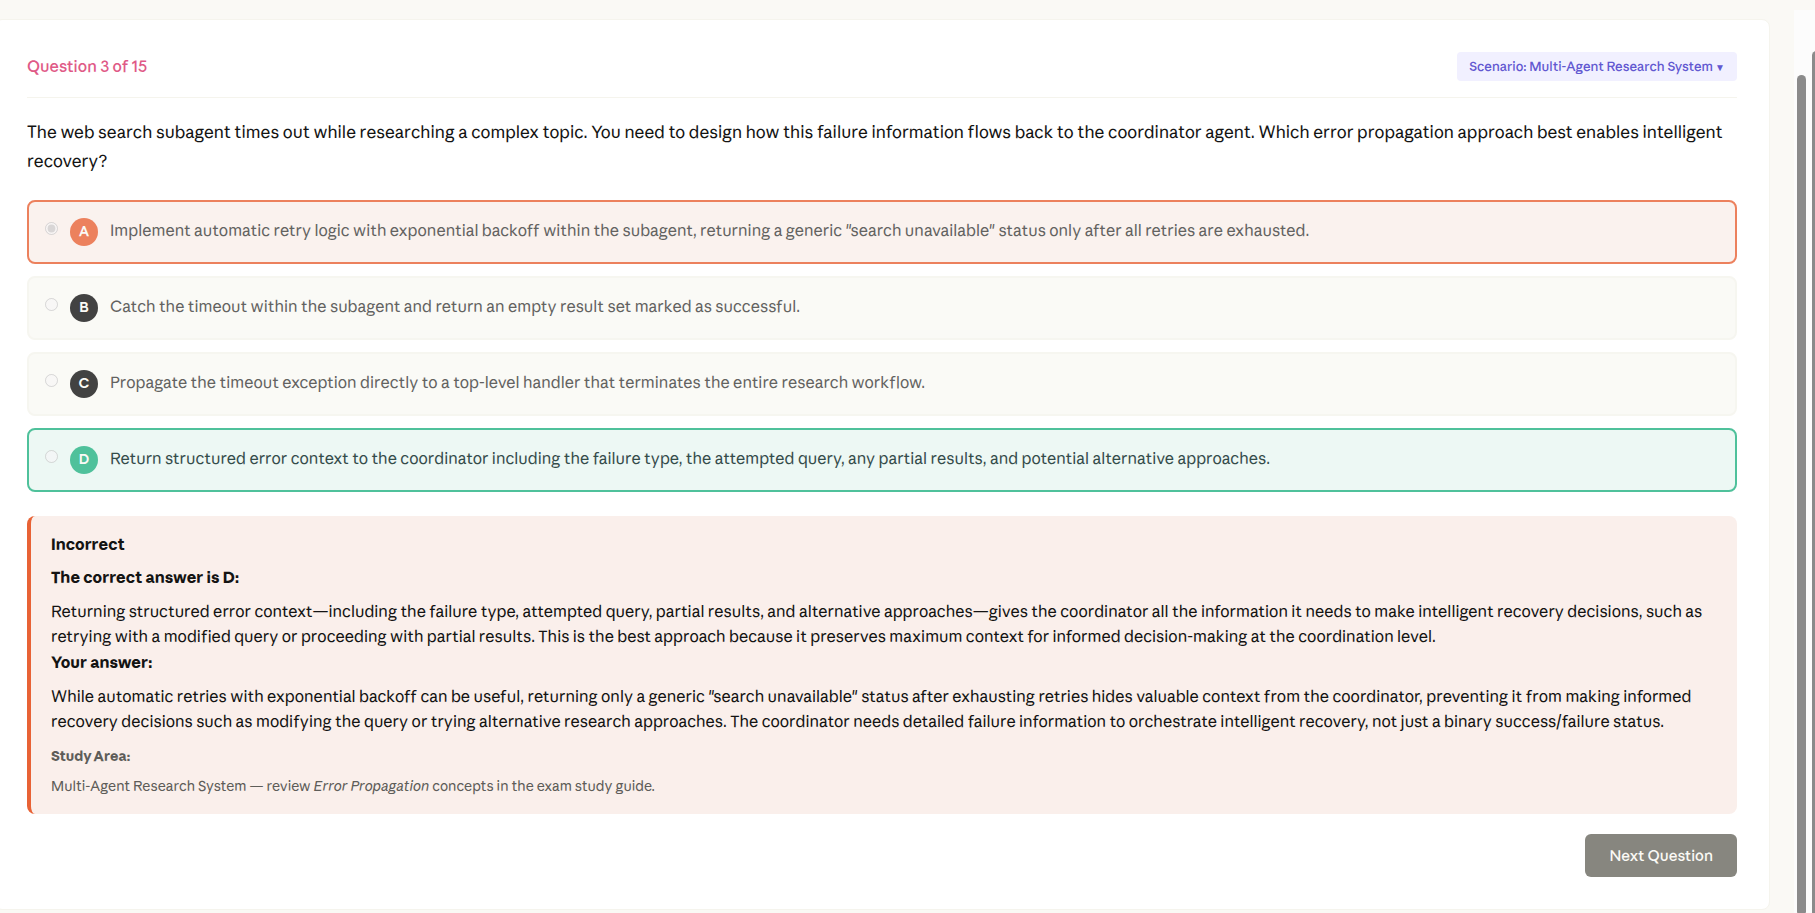
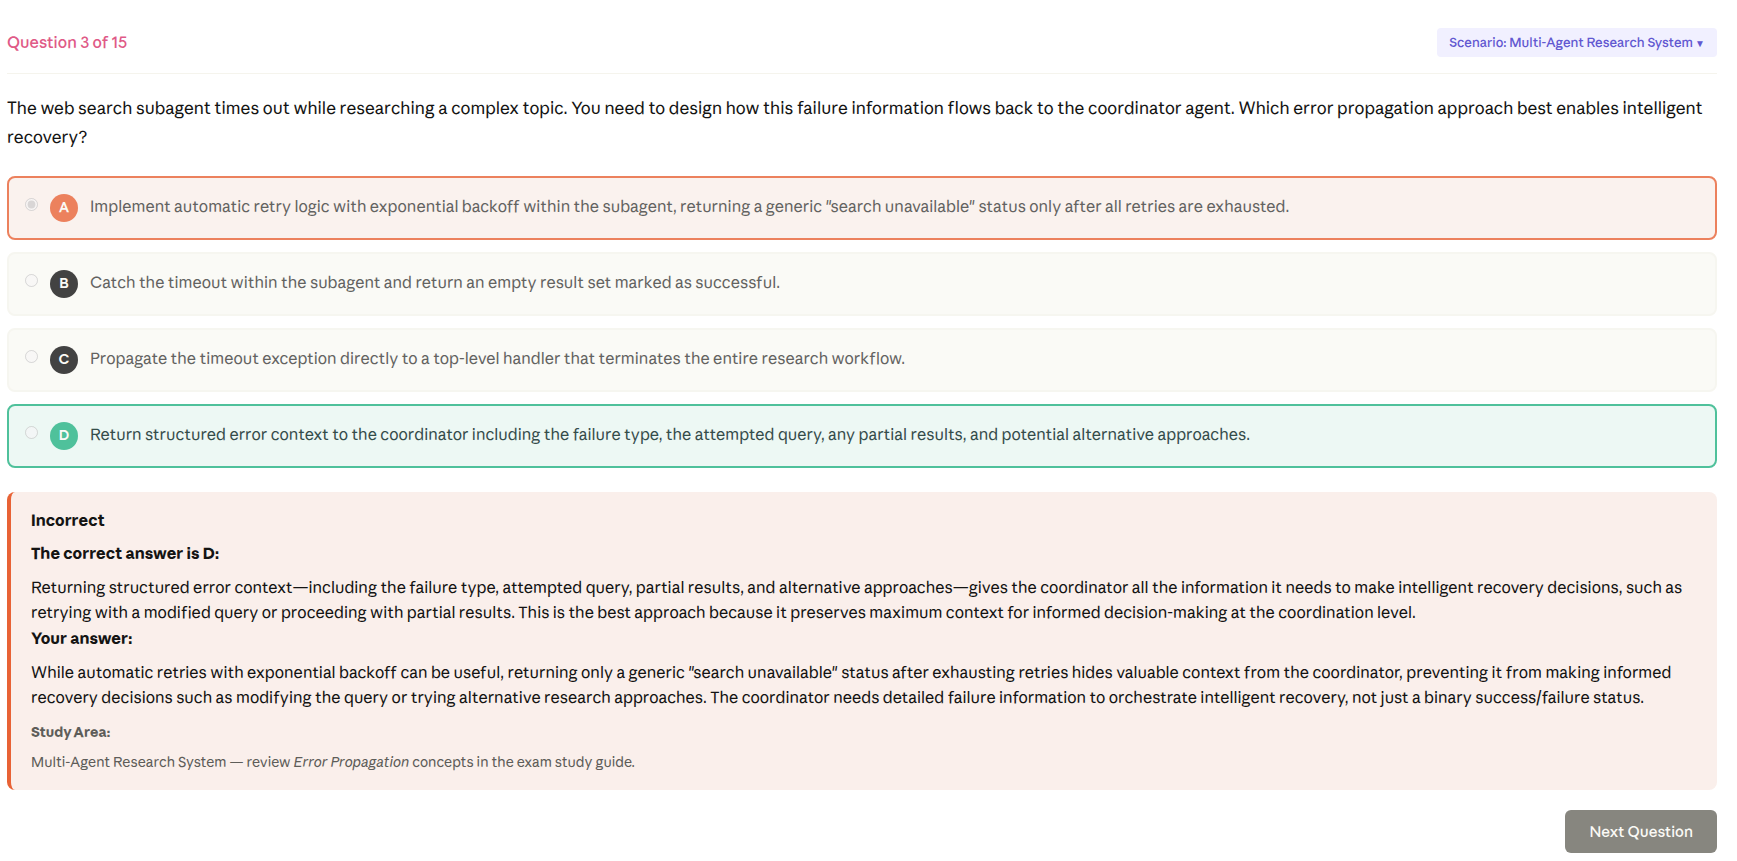
docs(blog): Update Anthropic Developer Certification post with detailed insights and images

diff --git a/_posts/2026-08-15-anthropic-developer-certification.md b/_posts/2026-08-15-anthropic-developer-certification.md
@@ -5,20 +5,27 @@ author: Carlos Pena
 date: 2026-08-15
 ---
 
-<!-- Intro: um parágrafo. Quando fez a prova, por que fez, e o resultado. Três frases. -->
+Passei na certificação de desenvolvedor da Anthropic. Este post não é um guia de estudo:
+é o registro dos meus erros e do que cada um deles me ensinou.
 
-<!-- Aviso: as imagens deste post são do Practice Exam, não da prova real. -->
+O padrão dos erros foi consistente o bastante para virar o fio condutor do texto. Em
+quase toda questão que errei, eu marquei a alternativa **verdadeira** - mas que não
+atacava a **causa raiz**. Havia sempre uma opção que era um fato correto sobre o sistema
+e outra, menos óbvia, que resolvia o problema descrito no enunciado. Foi só quando esse
+padrão ficou claro que minha nota começou a subir.
+
+As telas de questão que aparecem aqui são do **simulado oficial**, não da prova real.
+É ele que mostra a resposta certa junto com a explicação do erro, e foi lendo essas
+explicações que o padrão apareceu. Sobre a prova em si eu falo mais adiante, sem
+reproduzir questões.
+
 
 ---
 
----
-
-### As opções de hoje
+## As opções de hoje
 
 A oferta mudou desde que eu prestei. Hoje são quatro certificações Claude, e a escolha
 entre elas importa mais do que parece - os domínios cobrados são bem diferentes.
-
-<!-- Opcional: uma frase dizendo o que existia na época vs. o que existe agora. -->
 
 Todas compartilham o mesmo formato base: **120 minutos**, em **inglês**, válidas por
 **12 meses**, aplicadas online com proctoring ou em centro de testes Pearson.
@@ -32,7 +39,13 @@ O que muda é o número de questões, o preço e - principalmente - o peso de ca
 | Claude Certified Architect - Foundations | Foundations | 60 | US$ 125 |
 | Claude Certified Architect - Professional | Professional | 63 | US$ 175 |
 
-<!-- Falta ainda: política de retake. -->
+**Retake:** reprovando, há carência antes de tentar de novo - 14 dias após a primeira
+reprovação, 30 após a segunda e 90 após a terceira. São no máximo 4 tentativas por
+período móvel de 12 meses, contadas por prova: reprovar em uma não impede se inscrever
+em outra. A taxa é cobrada a cada tentativa - inclusive em caso de no-show ou atraso
+além da tolerância, que ainda exigem nova inscrição.
+
+Uma observação que vale: quando eu prestei, a carência era de **6 meses**.
 
 ### Os domínios de cada prova
 
@@ -132,7 +145,7 @@ prompt. Seja direto.
 
 ---
 
-## O Simulado
+## O simulado
 
 Números concretos do simulado:
 
@@ -167,9 +180,10 @@ Minha evolução entre a primeira e a última tentativa:
 
 ---
 
-## O dia da prova
+## A prova
 
-São 120 minutos. Terminei a primeira passada em torno de **90min** e usei o resto revisando: entreguei faltando **2 minutos**.
+São 120 minutos. Terminei a primeira passada em torno de **90 minutos** e usei o resto revisando:
+entreguei faltando **2 minutos**.
 
 Vale registrar isso porque contraria a intuição. Mesmo com quase o dobro do tempo por
 questão que o simulado dá, o tempo não sobrou. Três coisas explicam.
@@ -178,7 +192,7 @@ questão que o simulado dá, o tempo não sobrou. Três coisas explicam.
 percentuais, o que já foi tentado - antes de chegar à pergunta de fato. As imagens mais
 adiante neste post dão a dimensão: é normal ler dois parágrafos densos e só então avaliar
 quatro alternativas que também são longas. Uma questão assim, isolada, não seria problema.
-Uma atrás da outra, por 120 minutos, cansam.
+Uma atrás da outra, por 120 minutos, cansa.
 
 **Boa parte das questões é ambígua.** É nítido que os enunciados são escritos por IA:
 alternativas que se sobrepõem, cenários cheios de detalhe que não muda a resposta, e
@@ -205,17 +219,25 @@ seguir em frente.
 O cansaço também é cumulativo: o teto de tempo protege mais no fim da prova, quando a
 leitura já está pesando, do que no começo.
 
+### O resultado não sai na hora
+
+Esse foi o ponto que mais me incomodou, e o que menos aparece documentado.
+
+Não existe consenso sobre o prazo: em alguns lugares se fala em 2 a 14 dias úteis, em
+outros 5 a 14. Esperei os 14 dias úteis, não recebi nada, e mandei um email para a
+Anthropic. O resultado chegou uns 3 dias depois.
+
+Suspeito que seja efeito da fase de migração das certificações - a mesma que trocou os
+nomes das trilhas - e que o prazo normalize. Mas fica o aviso: o retorno não é imediato,
+e se estourar o prazo, cobrar por email funciona.
+
 ---
 
 ## As questões, por tópico
 
 Para cada cenário escolhi as questões que mais mudaram meu modelo mental - com o que
-eu marquei, qual era a correta, e por quê.
-
-Minhas duas maiores evoluções (CI e Multi-Agent) vieram do mesmo padrão de erro: eu
-escolhia a alternativa **verdadeira**, mas que não atacava a **causa raiz**. Quase
-sempre havia uma opção que era um fato correto sobre o sistema - e outra, menos
-óbvia, que resolvia o problema descrito no enunciado.
+eu marquei, qual era a correta, e por quê. Meus dois maiores saltos foram em CI e
+Multi-Agent, e é neles que o padrão descrito na abertura fica mais evidente.
 
 ---
 
@@ -357,8 +379,8 @@ Hoje, quando a segunda tentativa falha, eu paro de descrever e mostro um exemplo
 
 <img src="/assets/images/certification/questions/customer-support_q04_keyword-triggered-tool-selection-discrepancy.png" alt="Questão sobre discrepância na seleção de tools" width="100%">
 
-O cenário: quando o cliente escreve "conta" na mensagem, o agente chama `get_customer`
-primeiro em 78% dos casos. Sem a palavra "conta", ele chama `lookup_order` primeiro em
+O cenário: quando o cliente escreve "account" na mensagem, o agente chama `get_customer`
+primeiro em 78% dos casos. Sem a palavra "account", ele chama `lookup_order` primeiro em
 93%. As descrições das tools são boas e não ambíguas. Qual a causa raiz?
 
 Eu marquei **C** - associações do treinamento base entre "conta" e operações de cliente.
